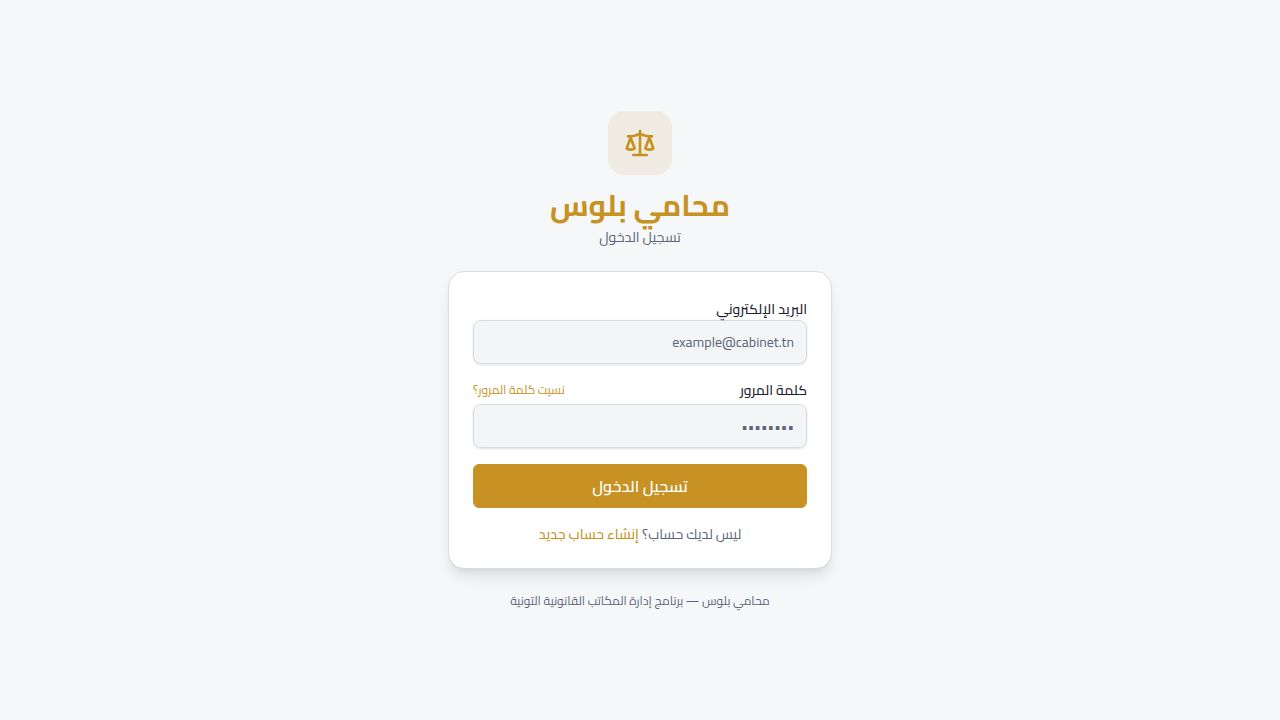
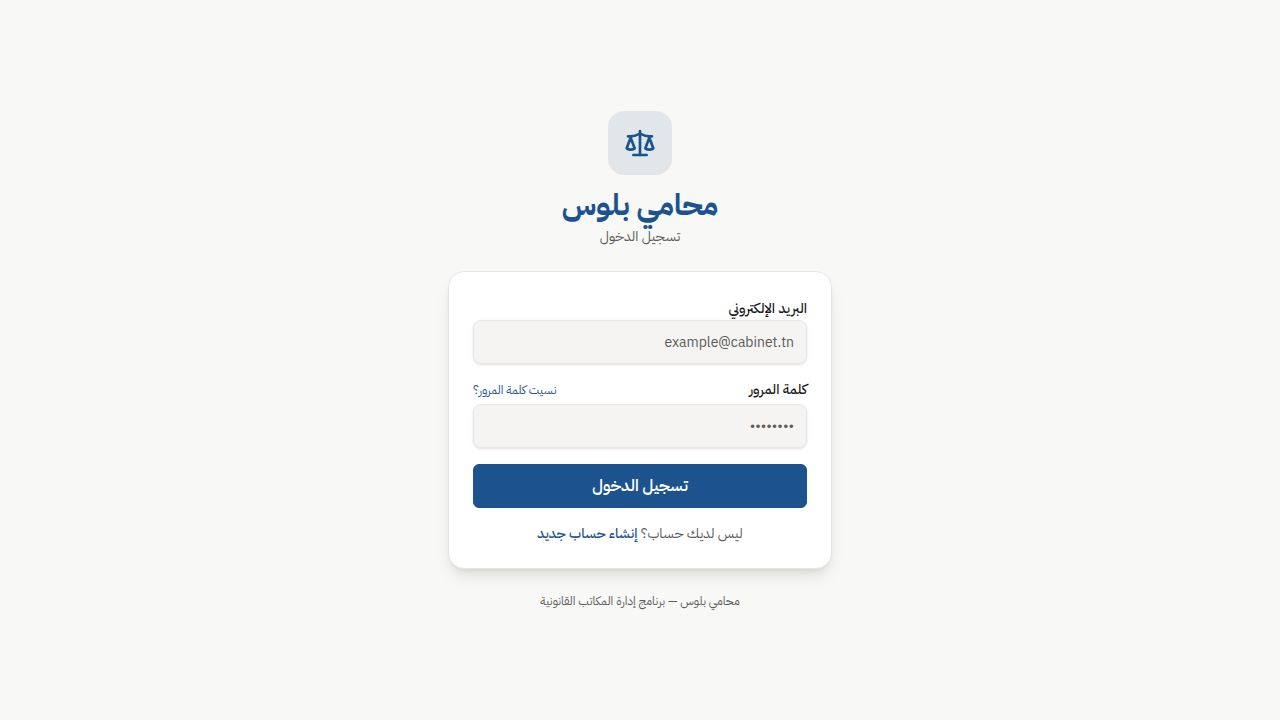
Restore currency display and fix API server route
Fixes an Express 5 wildcard route incompatibility in the API server and restores the correct currency display format in the law firm application.

Replit-Commit-Author: Agent
Replit-Commit-Session-Id: 4541e701-f0e7-467e-80c8-b94b12929e18
Replit-Commit-Checkpoint-Type: full_checkpoint
Replit-Commit-Event-Id: 8aaa0a7f-e8ad-45da-b614-5ef41d62ba2d
Replit-Commit-Screenshot-Url: https://storage.googleapis.com/screenshot-production-us-central1/8c4fd9c1-3450-40fe-baf2-96850260380e/4541e701-f0e7-467e-80c8-b94b12929e18/b2eEoBY
Replit-Helium-Checkpoint-Created: true

diff --git a/artifacts/api-server/src/app.ts b/artifacts/api-server/src/app.ts
@@ -70,7 +70,7 @@ const frontendDist = path.resolve(__dirname, "../../law-firm/dist/public");
 app.use(express.static(frontendDist));
 
 // Fallback: serve index.html for all non-API routes (client-side routing)
-app.get("*", (_req, res) => {
+app.get("/{*splat}", (_req, res) => {
   res.sendFile(path.join(frontendDist, "index.html"));
 });
 

diff --git a/artifacts/law-firm/src/components/Money.tsx b/artifacts/law-firm/src/components/Money.tsx
@@ -40,7 +40,7 @@ export function TNDAmount({ amount, className }: MoneyProps) {
       >
         {formatTND(amount)}
       </span>
-      {" "}
+      {" "}
       {/* 2e en HTML → positionné à GAUCHE dans le flux RTL */}
       <span
         style={{ direction: "ltr", unicodeBidi: "bidi-override" } as React.CSSProperties}